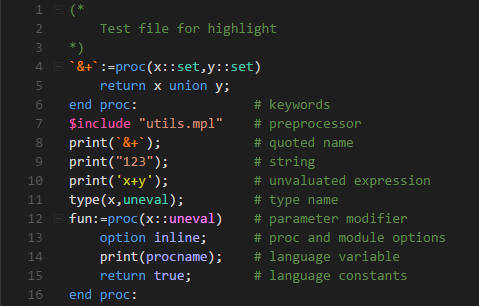
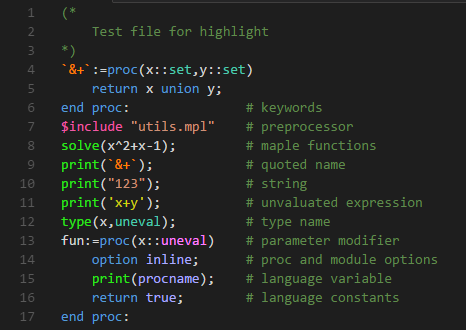
add maple function highlight

diff --git a/test/test.css b/test/test.css
@@ -1,7 +1,14 @@
-.foo{
-    color:#ff80ff;/* modifier */
-    color:#ff8000;/* quoted name */
-    color:#d0d00f;/* unevaluated expression */
-    color:#aaaaff;/* language variable and constant */
-    color:#ee5aa5;/* preprocessor */
+.foo {
+    color: #ff80ff;
+    /* modifier */
+    color: #ff8000;
+    /* quoted name */
+    color: #d0d00f;
+    /* unevaluated expression */
+    color: #aaaaff;
+    /* language variable and constant */
+    color: #ee5aa5;
+    /* preprocessor */
+    color: #2de817;
+    /* functions */
 }

diff --git a/README.md b/README.md
@@ -19,6 +19,7 @@ Support elements include:
     this extension just support mult-quoted unevaluated expressions such as `'x'` and `''x''`, expressions like `''x'+y'` can not be highlighted correctly.
 + preprocessor: such as `$include`. *Notice*: In Maple, the introducer `$` must appear as the first character of a line to be recognized as a preprocessor directive.
 + proc and module options. But deleted `trace` option, because it is rarely used, and can be instead of the `trace` function. 
++ maple functions.
 + support extensions: mpl,mm,mi .
 
 ## Snippets
